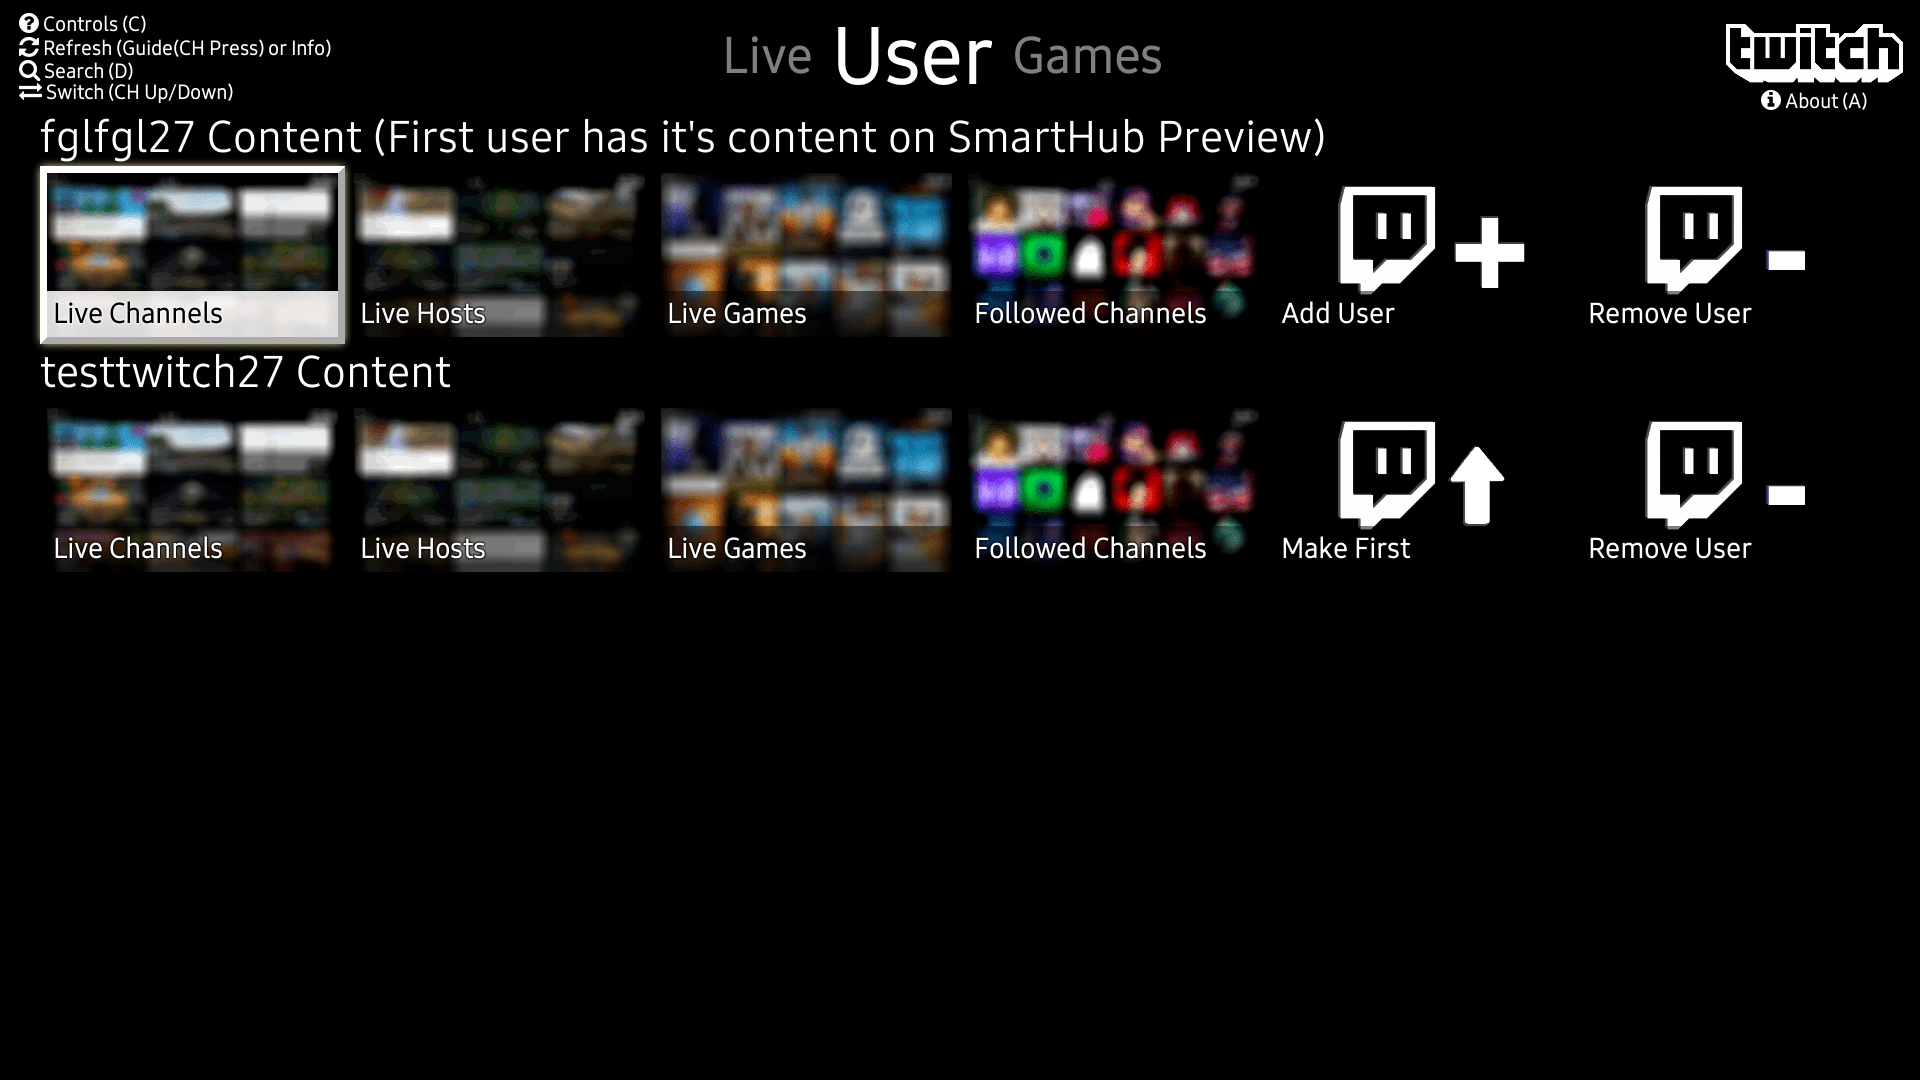
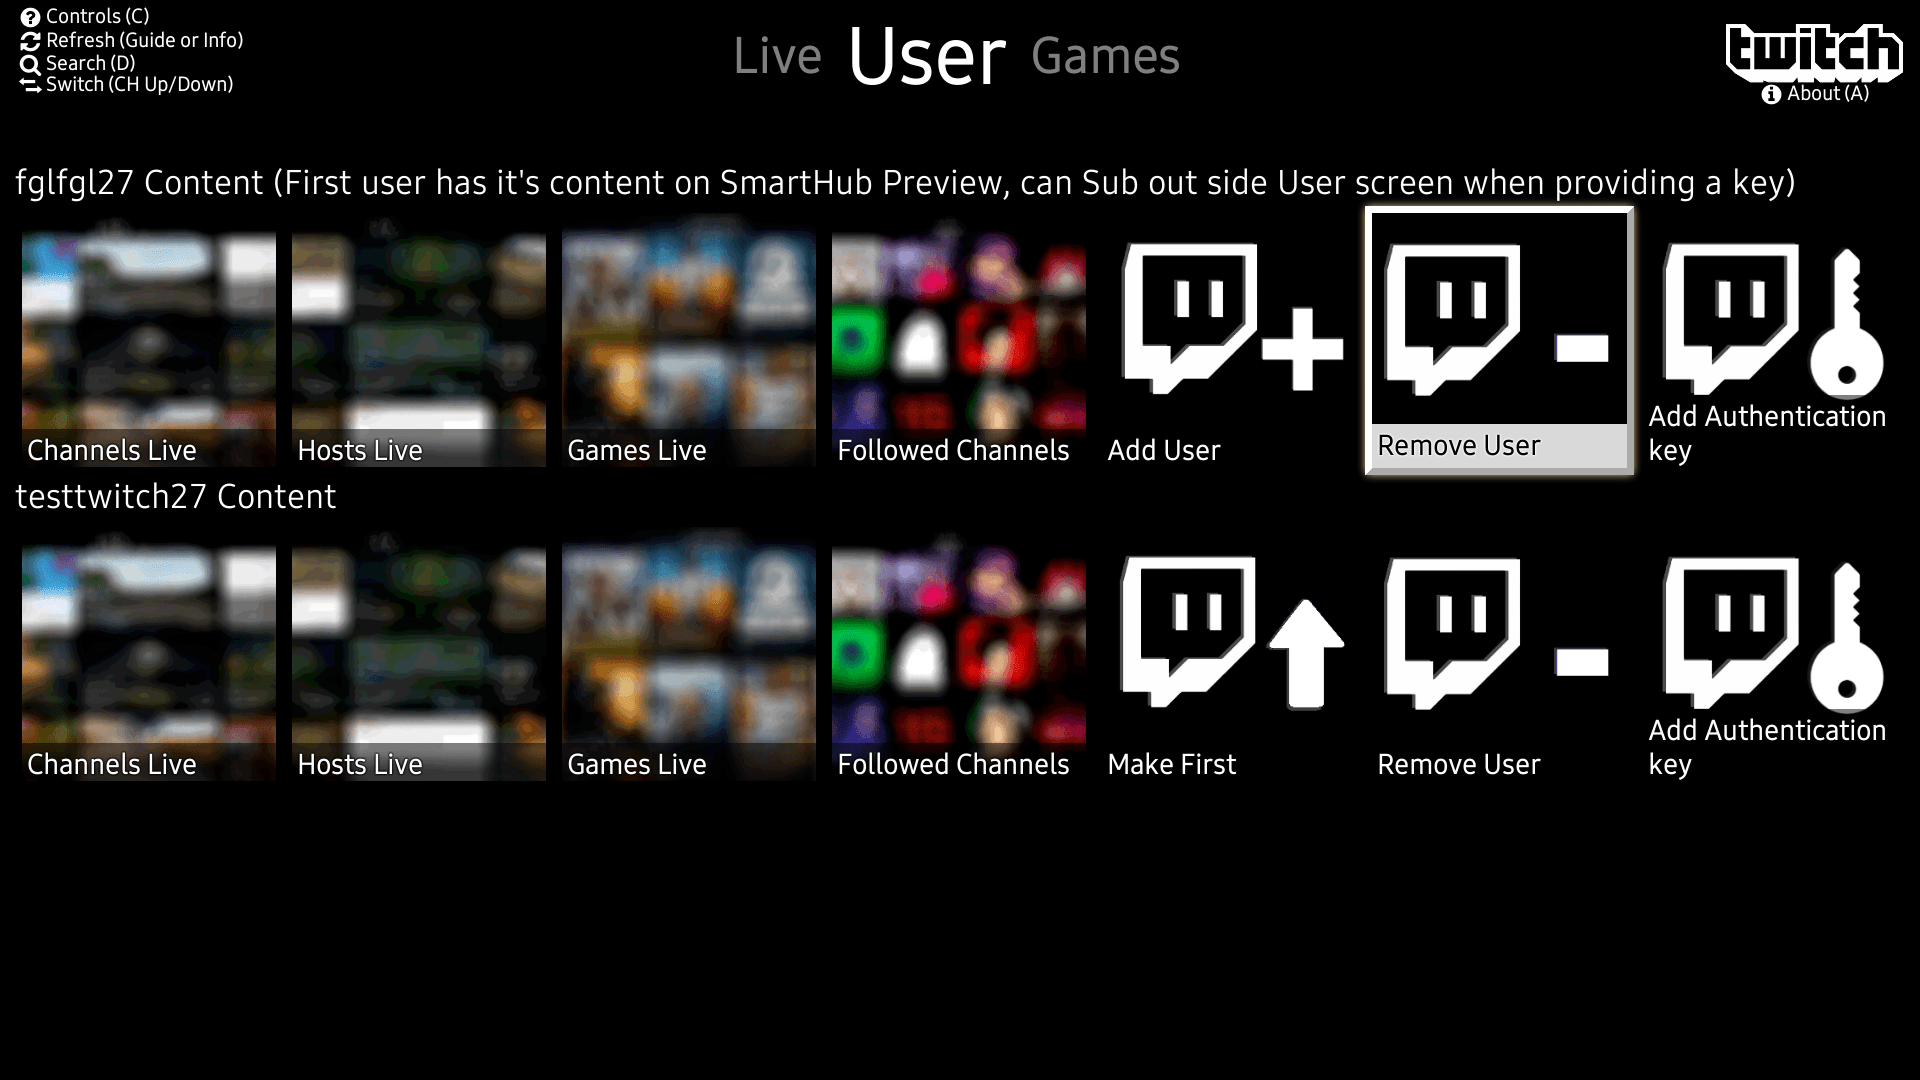
Update readme

diff --git a/release/githubio/login/twitch.html b/release/githubio/login/twitch.html
@@ -46,7 +46,7 @@
 <div id="auth" style="display: inline-block;">
     <img style="position: flex; float: center; width: 25%; padding-top: 2%;" src="https://bhb27.github.io/smarttv-twitch/release/githubio/images/twitchlogo.png" alt="twitchlogo" />
     <div style="position: flex; width: 100%; height: 100%;">
-        <p id="pText" style="font-size: 200%; color: #FFFFFF;">Click on the bellow "Authorize" button to access Twitch.TV, and give Twitch.TV app for Samsung TV authorization and generate a authentication key code</p>
+        <p id="pText" style="font-size: 200%; color: #FFFFFF;">Click on the bellow "Authorize" button to access Twitch.TV, and give Twitch.TV app for Samsung TV authorization and generate a authentication key code.<br>Is expected that you are already using the app, have set a user and click on the add a key featuring.</p>
     </div>
     <div style="position: flex; width: 100%; height: 100%;">
         <button id="login" class="button">Authorize</button>
@@ -67,7 +67,7 @@
         if (status.authenticated) {
             document.getElementById('login').classList.add('hidden');
             var session = JSON.parse(sessionStorage.twitch_oauth_session);
-            document.getElementById("pText").innerHTML = 'Enter the bellow characters on the app screen (There is only lower case letters)<br><br>' + session.token;
+            document.getElementById("pText").innerHTML = 'Enter the bellow characters on the app "add a key" screen acceded via "User" screen (There is only lower case letters)<br><br>' + session.token;
         }
         $('#login').click(function() {
             Twitch.login({

diff --git a/README.md b/README.md
@@ -3,10 +3,10 @@ smarttv-twitch
 
 This is an application for Samsung SmartTV's designed to watch Twitch.tv broadcasts, A official Twitch.TV app is not availably for most TV, that is way this project exist.
 
-The application was tested on 4k and 1080p Samsung TV running Tizen 2.4, it full supports all series 6 TV (or up) 1080p to 4k models, some series 5 TV have support but not all, if yours Smart Hub menu is different from the one below yours TV is probably not supported as it doesn't run Tizen version supported by the application.
+The application is tested and fully support 4k and 1080p Samsung TV released on 2016 and up, if yours Smart Hub menu is different from the one below yours TV is probably not supported as it doesn't run Tizen version supported by the application.
 ![Live](https://bhb27.github.io/smarttv-twitch/screenshot/smarthub.jpeg)
 
-Full support for series 5 TV is under work, but there is a know bug from some TV FW running Tizen 2.3 that prevent the app from work, Samsung is revising the problems, once the support is available a new application will be made to support Series 5 TV, and the proper info will be noted here and on the release page.
+Full support for all 2015 TV is under work, but there is a know bug from some TV FW running Tizen 2.3 that prevent the app from work, Samsung is revising the problems, once the proper support is available a new application will be added on the release page (https://github.com/bhb27/smarttv-twitch/releases/) informing the support.
 
 In doubt [open a issue](https://github.com/bhb27/smarttv-twitch/issues/new) inform yours TV model, computer OS and problem, if is a installation problem share the fail LOG
 
@@ -16,8 +16,11 @@ In doubt [open a issue](https://github.com/bhb27/smarttv-twitch/issues/new) info
 Twitch.TV authentication key
 ===============
 
-To be able to fallow/Un fallow and access subscribed only past broadcast is needed to add a Twitch.TV authentication key in the app, the key is generated on the bellow link and through Twitch.TV web site
-## [Twitch.TV app for Samsung TV authorization page](https://bhb27.github.io/smarttv-twitch/release/githubio/login/twitch.html)
+![Add_key](https://bhb27.github.io/smarttv-twitch/screenshot/Add_key.png)
+
+After setting up a user on the app you can add a Twitch.TV authentication key, to be able to fallow and access subscribed only past broadcast. The key is generated on the bellow link through Twitch.TV web site, the link is only a reference as it is displayed on the app screen
+
+## [Twitch.TV app for Samsung TV authorization page](http://tiny.cc/twitchkey)
 
 About this fork
 ===============
